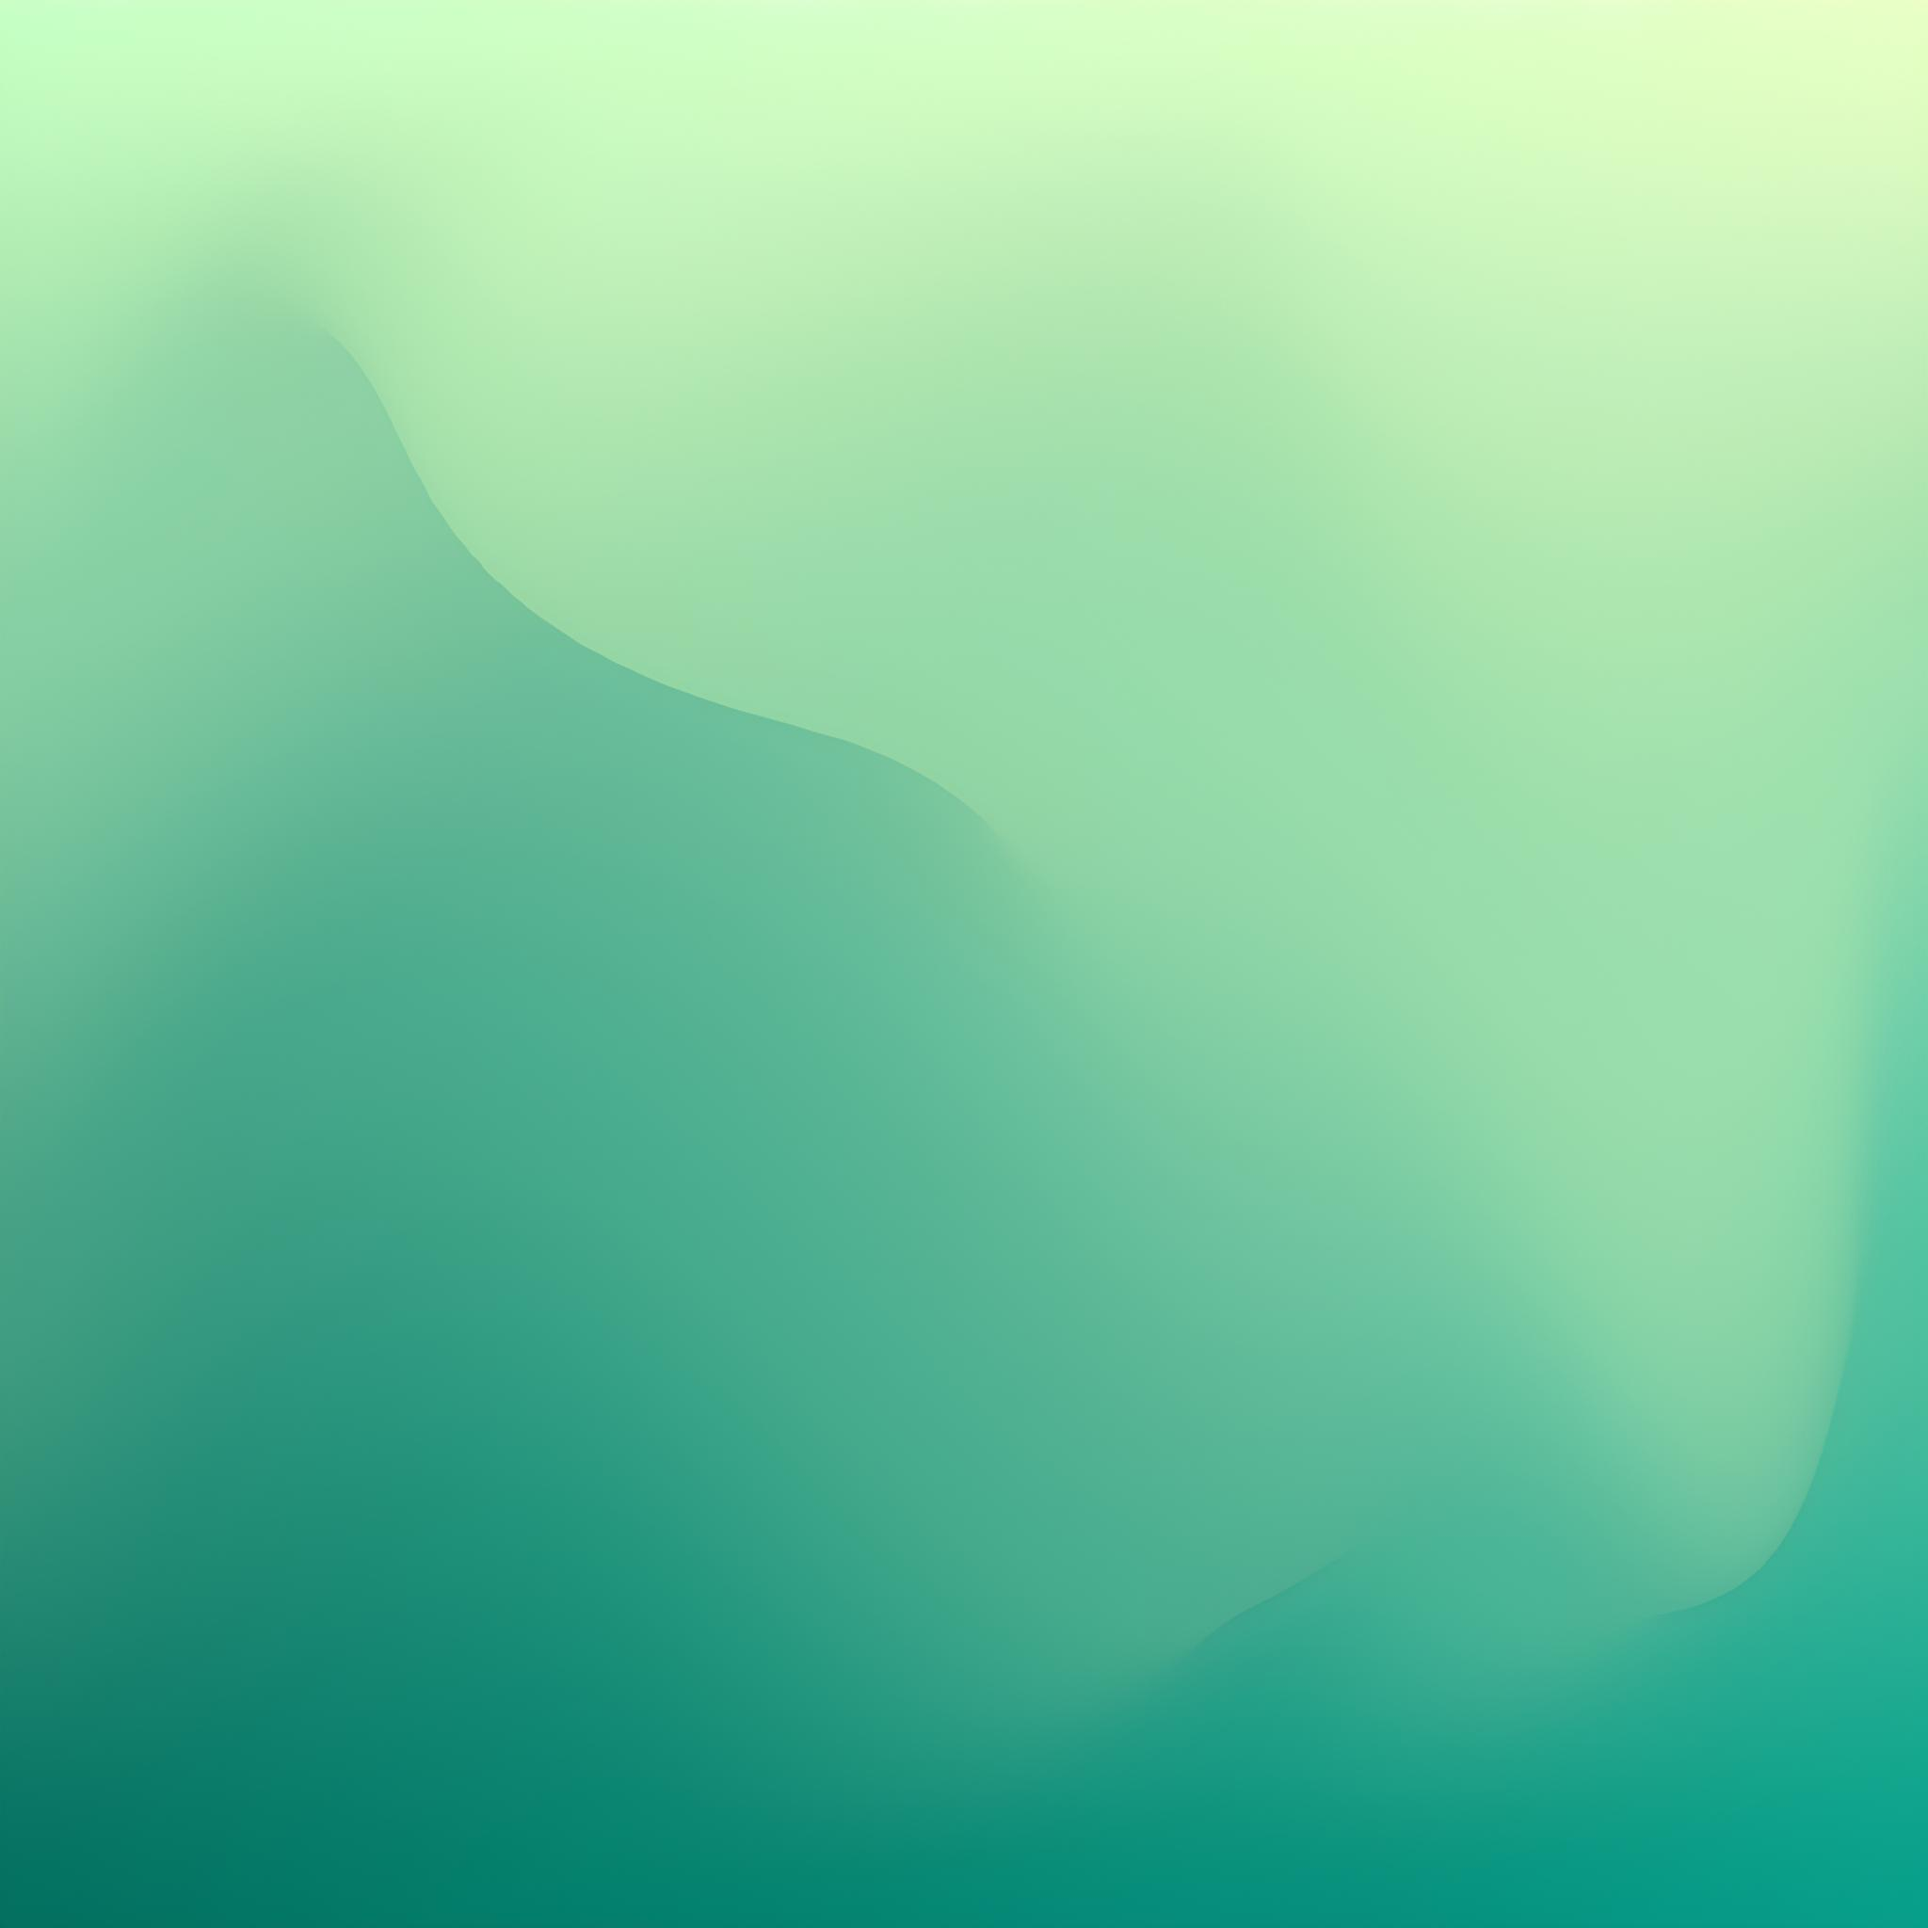
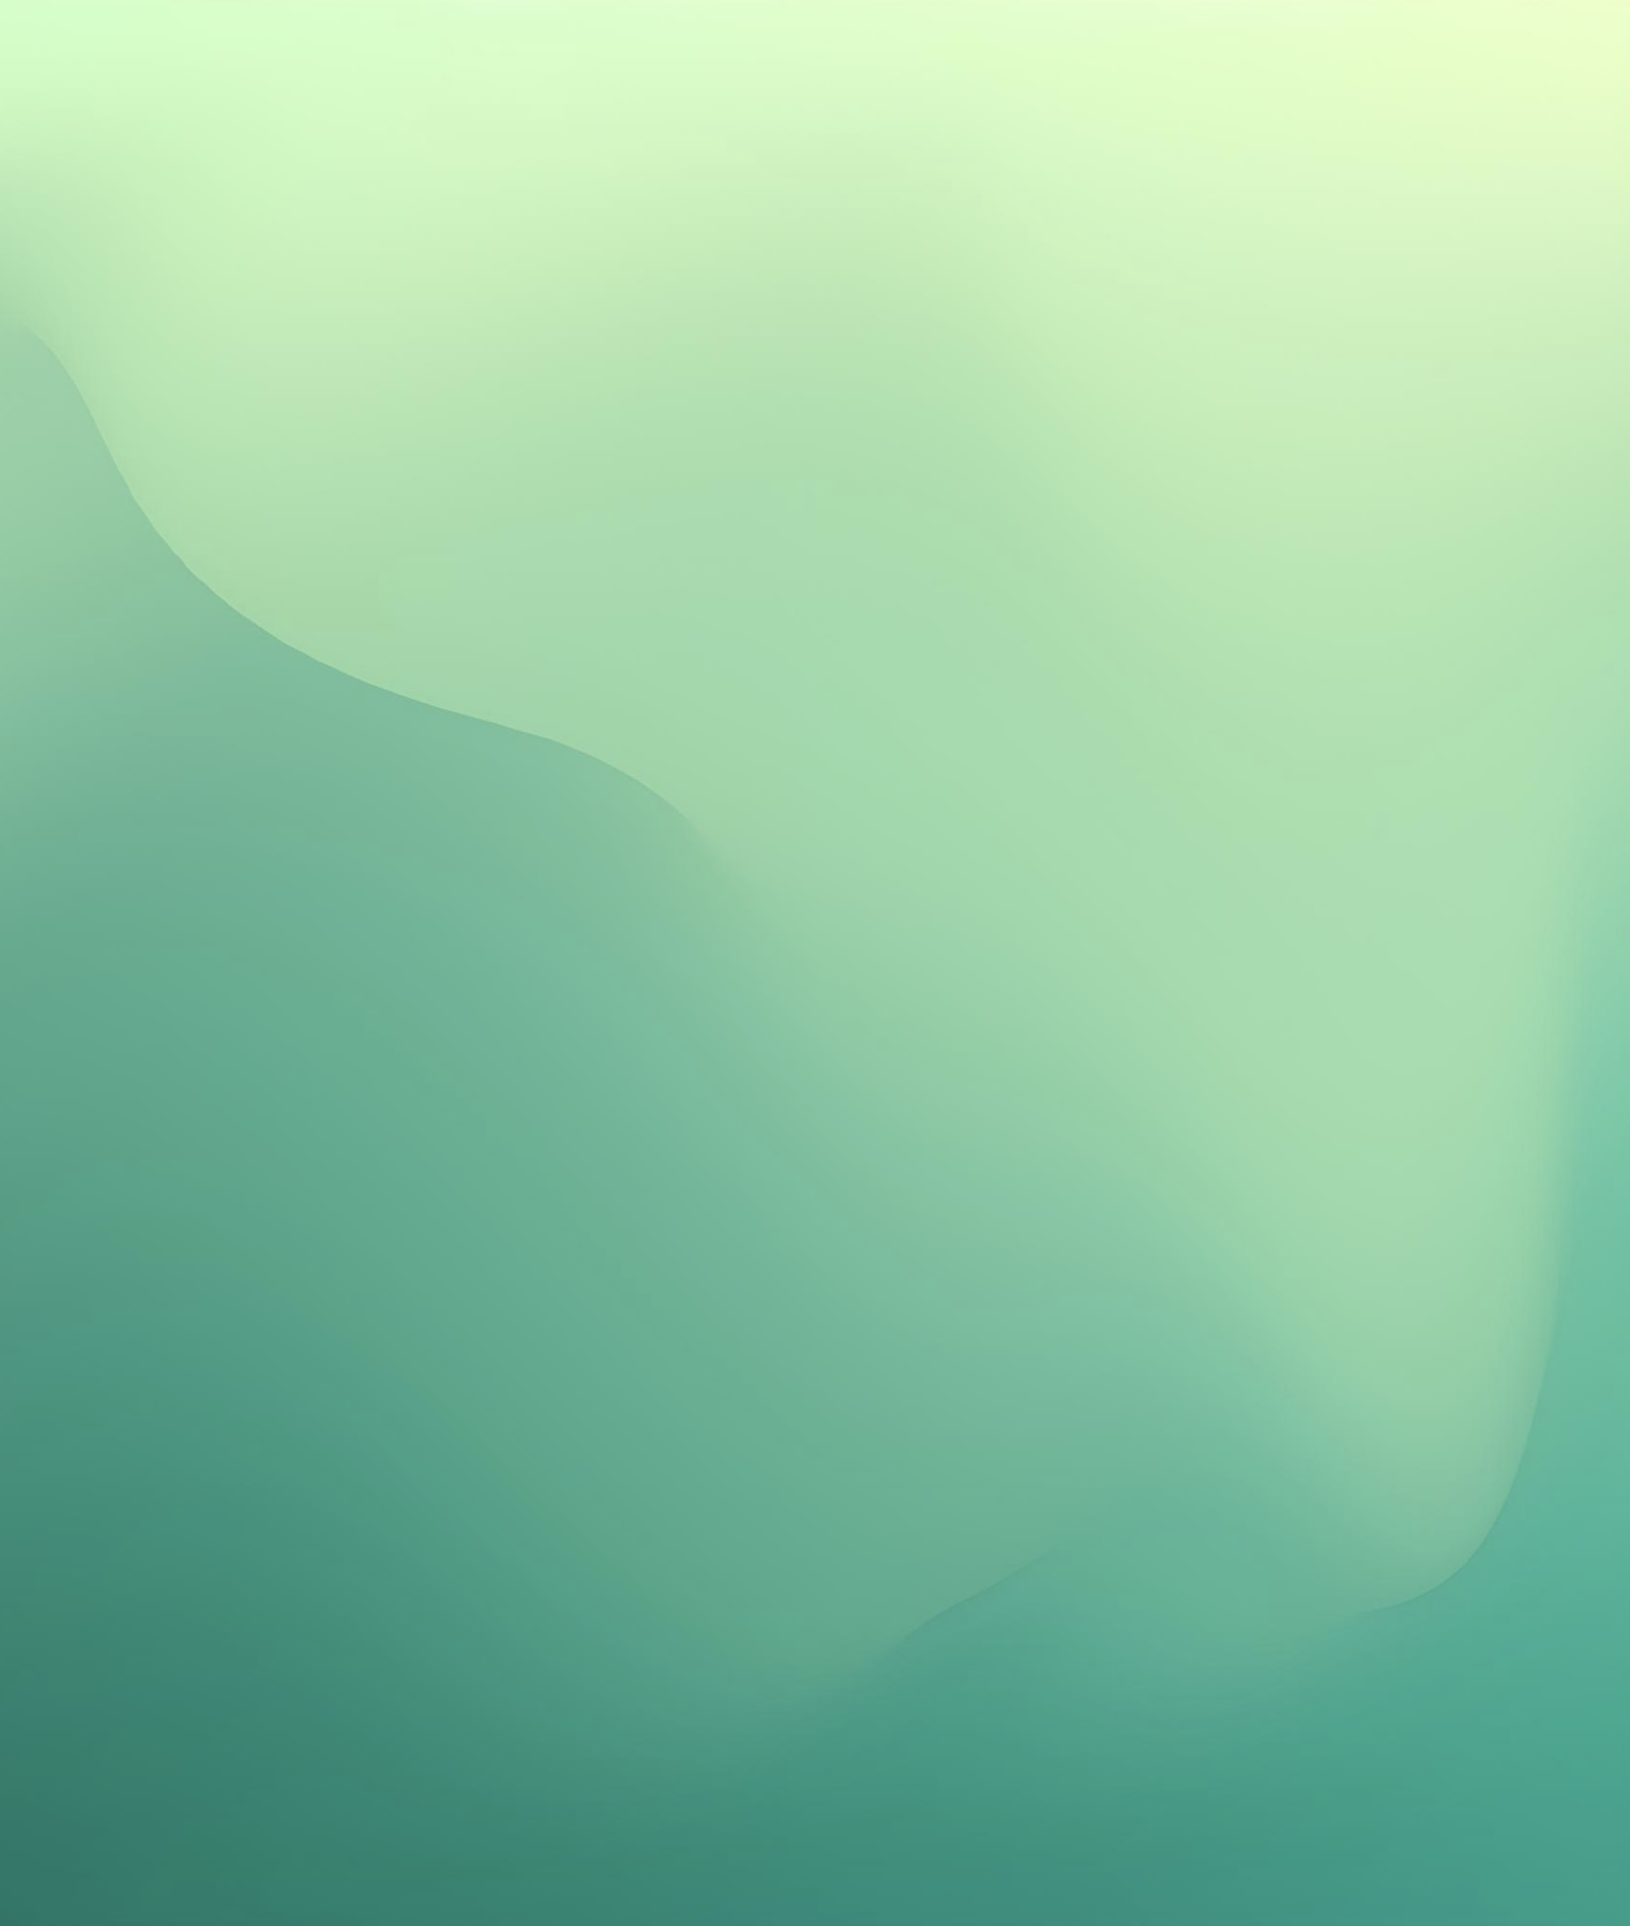
fix: make background image stretch to fit half of the screen

diff --git a/src/app/login/page.tsx b/src/app/login/page.tsx
@@ -35,11 +35,15 @@ export default function LoginPage() {
 
     return (
         <div className="flex h-full w-full items-center justify-center bg-neutral-50">
-            <div className="hidden h-full w-1/2 overflow-hidden bg-[url('/CGGradient.jpeg')] bg-cover bg-[position:-150px_0px] bg-no-repeat md:block"></div>
+            <div className="hidden h-full w-1/2 bg-[url('/CGGradient.jpeg')] bg-cover bg-no-repeat md:block"></div>
             <div className="flex justify-center md:w-1/2">
                 <div className="flex flex-col items-center md:items-start">
-                    <img src="CGLogo.svg" alt="Logo" className="mb-6 size-24" />
-                    <h1 className="mb-8 text-center font-roboto text-[32px] font-bold text-emerald-600">
+                    <img
+                        src="CGLogo.svg"
+                        alt="Logo"
+                        className="mb-6 size-24 md:mb-3"
+                    />
+                    <h1 className="mb-8 text-center font-roboto text-[32px] font-bold text-emerald-600 md:mb-11 md:text-[40px]">
                         COMMONGROUND
                     </h1>
                     <button
@@ -51,7 +55,7 @@ export default function LoginPage() {
                         <svg
                             xmlns="http://www.w3.org/2000/svg"
                             viewBox="0 0 24 24"
-                            className="size-6"
+                            className="size-6 md:size-[30px]"
                         >
                             <path
                                 fill="#4285F4"
